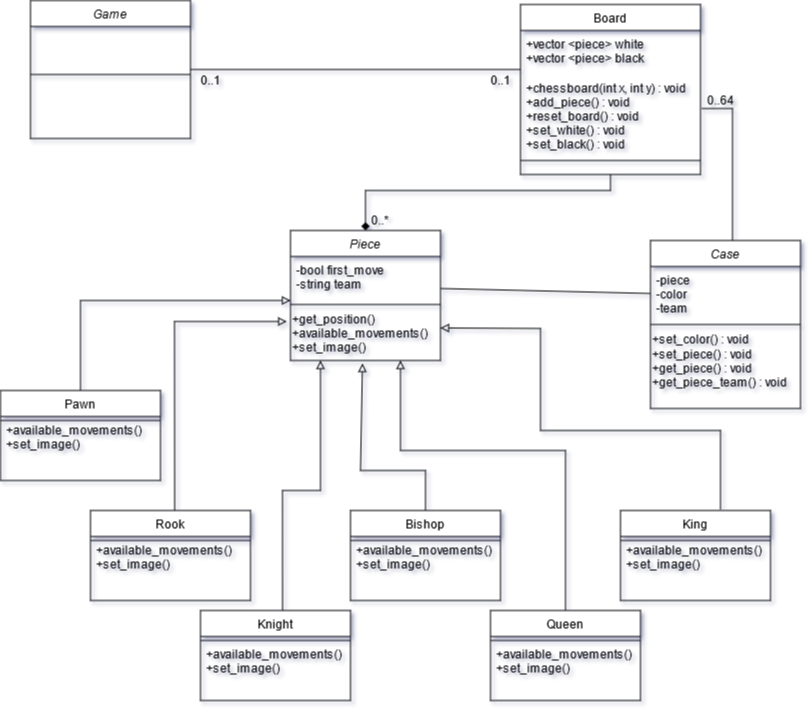
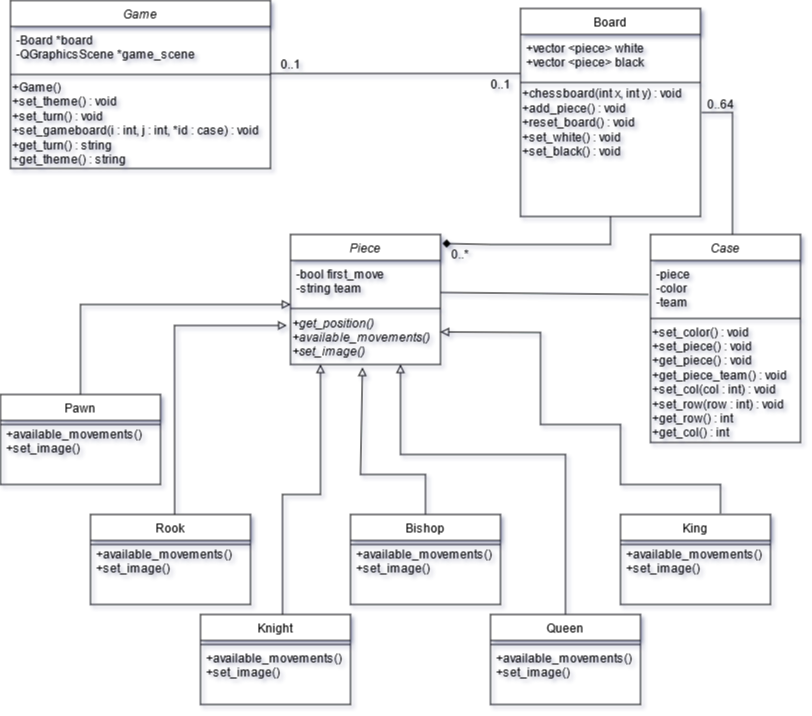
add methods and update diagram

diff --git a/game.cpp b/game.cpp
@@ -28,14 +28,7 @@ void Game::set_gameboard(int i, int j, Case *id)
 
 void Game::view_menu()
 {
-    QGraphicsTextItem *titleText = new QGraphicsTextItem("Échecs");
-    QFont titleFont("arial" , 50);
-    titleText->setFont( titleFont);
-    int xPos = width()/2 - titleText->boundingRect().width()/2;
-    int yPos = 150;
-    titleText->setPos(xPos,yPos);
-    addToScene(titleText);
-    view_board();
+
 }
 void Game::view_board()
 {
